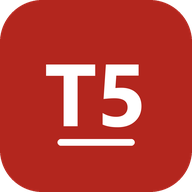
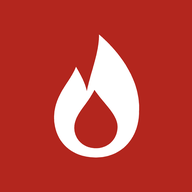
Carcasa: nombre «Turno Bomberos» e icono de llama, sin «Turno 5» (para otros turnos)

diff --git a/index.html b/index.html
@@ -4,14 +4,14 @@
   <meta charset="utf-8">
   <meta name="viewport" content="width=device-width, initial-scale=1, viewport-fit=cover">
   <meta name="theme-color" content="#b3261e">
-  <title>Turno 5</title>
-  <meta name="description" content="App del Turno 5 (Parque de Arganda).">
+  <title>Turno Bomberos</title>
+  <meta name="description" content="App para organizar el turno: dotación, tareas y cuadrante.">
   <link rel="manifest" href="manifest.webmanifest">
   <link rel="icon" href="favicon.png" type="image/png">
   <link rel="apple-touch-icon" href="apple-touch-icon.png">
   <meta name="mobile-web-app-capable" content="yes">
   <meta name="apple-mobile-web-app-capable" content="yes">
-  <meta name="apple-mobile-web-app-title" content="Turno 5">
+  <meta name="apple-mobile-web-app-title" content="Turno Bomberos">
   <meta name="apple-mobile-web-app-status-bar-style" content="black-translucent">
   <style>
     :root { --rojo: #b3261e; --fondo: #f6f4f3; --texto: #1d1b1a; --suave: #6b6461; --tarjeta: #fff; }
@@ -42,7 +42,7 @@
   </style>
 </head>
 <body>
-  <iframe id="app" title="Turno 5" allow="web-share; clipboard-write"></iframe>
+  <iframe id="app" title="Turno Bomberos" allow="web-share; clipboard-write"></iframe>
 
   <div class="capa" id="cargando">
     <img src="icono-192.png" alt="">

diff --git a/sw.js b/sw.js
@@ -1,6 +1,6 @@
 // Service worker de la carcasa: guarda solo sus propios archivos (la app de Google va siempre por red).
 // Primero la red, para que los cambios lleguen enseguida; sin conexión, lo guardado.
-const CACHE = 'turno5-carcasa-1';
+const CACHE = 'turno-carcasa-2';
 const ARCHIVOS = ['./', 'index.html', 'manifest.webmanifest', 'icono-192.png', 'icono-512.png',
   'icono-maskable-512.png', 'apple-touch-icon.png', 'favicon.png'];
 
